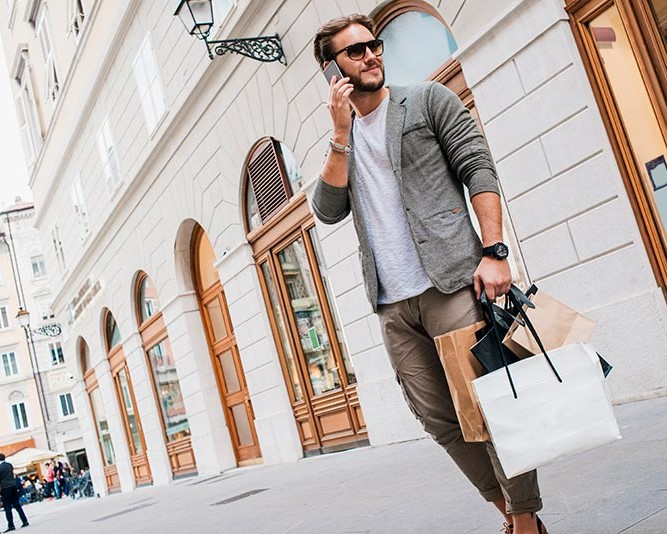
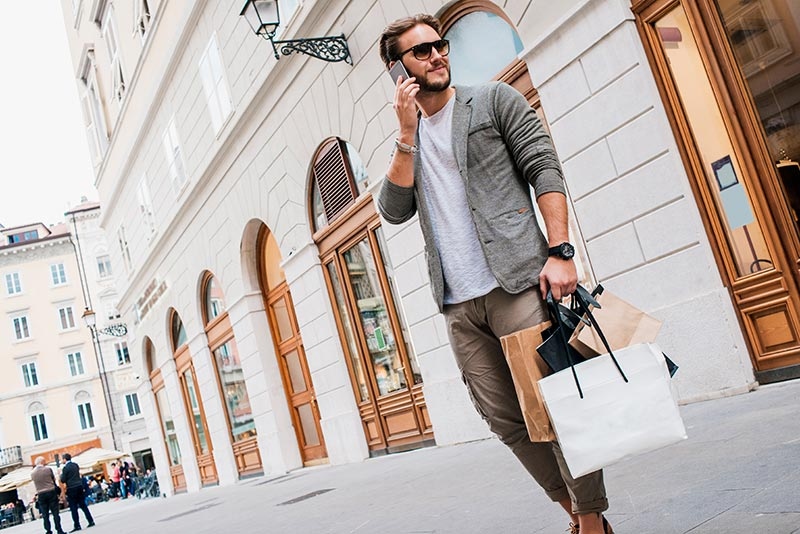
commit on master

diff --git a/css/styles.css b/css/styles.css
@@ -225,9 +225,9 @@ nav {
 .landing {
   margin-top: 20px;
   background-image: linear-gradient(rgba(0, 0, 0, 0.2), rgba(0, 0, 0, 0.2)),
-    url(../img/bg/couple.jpg);
+    url(../img/bg/family.jpg);
   background-size: cover;
-  background-position: right;
+  background-position: top;
   height: 80vh;
 }
 
@@ -238,35 +238,36 @@ nav {
 
 .landing-btn {
   text-align: center;
-  margin-top: 60px;
-  background-color: #fff;
+  margin-top: 30px;
+  background-color: #eee;
   width: 450px;
   height: 100px;
   box-shadow: 5px 5px 2px 1px rgba(0, 0, 0, 0.3);
 }
 
 .landing-btn a {
-  margin-top: 25px;
-  margin-right: 10px;
+  margin: 25px 10px 0 0;
 }
 
 /*------- FEATURED PRODUCTS -------*/
 
 .more {
   text-align: center;
+  margin-top: 10px;
 }
 
 .product-card {
   position: relative;
   box-shadow: 0 2px 7px #dfdfdf;
-  margin: 50px 15px;
+  margin: 30px 0;
+  margin-left: 20px;
   background: #fafafa;
 }
 
 .badge {
   position: absolute;
   left: 0;
-  top: 15px;
+  top: 10px;
   text-transform: uppercase;
   font-size: 13px;
   font-weight: 700;
@@ -276,13 +277,12 @@ nav {
 }
 
 .product-tumb {
-  cursor: pointer;
   display: flex;
   align-items: center;
   justify-content: center;
   height: 250px;
-  padding: 50px;
   background: #f0f0f0;
+  z-index: 1;
 }
 
 .product-tumb a.btn {
@@ -299,20 +299,21 @@ nav {
 .product-tumb a:nth-child(2) {
   top: 32%;
 }
-/* 
-.product-tumb:hover {
-  background: rgba(0, 0, 0, 0.2);
-  padding: 40px;
-  transition: all 0.3s;
-} */
 
-.product-tumb:hover a.btn-white {
+.product-tumb:hover a.btn {
   display: block;
 }
 
 .product-tumb img {
   max-width: 100%;
   max-height: 100%;
+  transition: all 0.3s;
+}
+
+.product-tumb:hover img {
+  max-width: 108%;
+  max-height: 108%;
+  transition: all 0.3s;
 }
 
 .product-details {
@@ -375,6 +376,9 @@ nav {
 }
 
 .product-links {
+  position: absolute;
+  right: 10px;
+  bottom: 15px;
   text-align: right;
 }
 
@@ -561,12 +565,11 @@ footer h3 span {
 
   .nav-btn {
     display: inline-block;
-    width: 30%;
+    width: 10%;
     margin-left: 10px;
   }
 
   .nav-btn label {
-    cursor: pointer;
     display: block;
     width: 25px;
     height: 20px;
@@ -616,7 +619,6 @@ footer h3 span {
 
   .nav-left i {
     display: block;
-    cursor: pointer;
     position: absolute;
     right: 15px;
     top: 10px;
@@ -624,18 +626,16 @@ footer h3 span {
   }
 
   nav {
-    height: 50px;
+    height: 60px;
   }
 
   .brand-name {
-    margin-top: 5px;
+    margin-top: 8px;
     display: inline-block;
   }
 
   .brand-name a:link,
   .brand-name a:visited {
-    all: unset;
-    cursor: pointer;
     font-size: 200%;
   }
 
@@ -651,22 +651,23 @@ footer h3 span {
     margin-top: 15px;
   }
 
-  /* DROPDOWN LINK */
   .dropdown-content {
-    display: none !important;
-    position: absolute;
-    background-color: #000;
-    box-shadow: 0px 8px 16px 0px rgba(0, 0, 0, 0.2);
+    right: 0;
   }
 
-  .dropdown-content a {
-    margin: 10px 30px;
+  .hero-text-box br {
+    display: none;
   }
 
-  .dropdown-content a:first-child:hover,
-  .dropdown-content a:first-child:active {
-    background-color: rgba(13, 187, 13, 0.7);
-    border: 2px solid rgba(13, 187, 13, 0.7);
+  /*------- CONTENT ASSET SECTION --------*/
+
+  .content-asset {
+    padding: 20px 0;
+  }
+
+  .content {
+    width: 42%;
+    margin: 15px 0;
   }
 
   /*------- FOOTER --------*/
@@ -689,7 +690,73 @@ footer h3 span {
   }
 }
 
-/* PARAGRAPHS */
+@media (max-width: 529px) {
+  section {
+    padding: 20px 0;
+  }
+
+  .content {
+    width: 100%;
+  }
+
+  h1 {
+    font-size: 200%;
+    word-spacing: 2px;
+  }
+
+  h2 {
+    font-size: 110%;
+    word-spacing: 1px;
+    margin-bottom: 10px;
+  }
+
+  h2::after {
+    height: 1px;
+    margin-top: 10px;
+  }
+
+  .hero-text-box {
+    margin: 30px;
+  }
+
+  .landing-btn {
+    width: 220px;
+    height: 130px;
+  }
+
+  .landing-btn a {
+    margin: 10px 0 0;
+  }
+
+  .product-card {
+    margin: 20px 0 20px 13px;
+  }
+
+  .product-tumb {
+    height: 150px;
+  }
+
+  .product-tumb:hover a.btn {
+    display: none;
+  }
+
+  .product-details {
+    padding: 10px;
+  }
+
+  .product-details h4 a {
+    font-size: 80%;
+  }
+
+  .product-bottom-details {
+    padding-top: 5px;
+  }
+
+  .product-details p {
+    display: none;
+  }
+}
+
 /* 
 .long-copy {
   line-height: 145%;

diff --git a/index.html b/index.html
@@ -80,12 +80,12 @@
     <section class="landing">
       <div class="hero-text-box">
         <h1>
-          This is your best choice <br />
-          to shop here
+          This is your best <br />
+          choice to shop here
         </h1>
         <div class="landing-btn">
-          <a href="#" class="btn btn-black">Shop mens </a>
-          <a href="#" class="btn btn-black">Shop womens </a>
+          <a href="#" class="btn btn-white">Shop mens </a>
+          <a href="#" class="btn btn-white">Shop womens </a>
         </div>
       </div>
     </section>
@@ -131,7 +131,7 @@
         <div class="span_1_of_3">
           <div class="product-card">
             <div class="product-tumb">
-              <img src="img/Men1.jpg" alt="Womens bag" />
+              <img src="img/Men1.png" alt="Womens bag" />
             </div>
 
             <div class="product-details">
@@ -142,7 +142,7 @@
         <div class="span_1_of_3">
           <div class="product-card">
             <div class="product-tumb">
-              <img src="img/img7.jpg" alt="Womens bag" />
+              <img src="img/img5.jpg" alt="Womens bag" />
             </div>
 
             <div class="product-details">
@@ -153,7 +153,7 @@
         <div class="span_1_of_3">
           <div class="product-card">
             <div class="product-tumb">
-              <img src="img/img2.jpg" alt="Womens bag" />
+              <img src="img/img6.jpg" alt="Womens bag" />
             </div>
 
             <div class="product-details">
@@ -190,6 +190,7 @@
                 <div class="product-price"><small>$96.00</small>$230.99</div>
                 <div class="product-links">
                   <a href="#"><i class="fa fa-heart"></i></a>
+                  <a href="#"><i class="fa fa-shopping-cart"></i></a>
                 </div>
               </div>
             </div>
@@ -215,6 +216,7 @@
                 <div class="product-price"><small>$96.00</small>$230.99</div>
                 <div class="product-links">
                   <a href="#"><i class="fa fa-heart"></i></a>
+                  <a href="#"><i class="fa fa-shopping-cart"></i></a>
                 </div>
               </div>
             </div>
@@ -240,6 +242,7 @@
                 <div class="product-price"><small>$96.00</small>$230.99</div>
                 <div class="product-links">
                   <a href="#"><i class="fa fa-heart"></i></a>
+                  <a href="#"><i class="fa fa-shopping-cart"></i></a>
                 </div>
               </div>
             </div>
@@ -265,6 +268,7 @@
                 <div class="product-price"><small>$96.00</small>$230.99</div>
                 <div class="product-links">
                   <a href="#"><i class="fa fa-heart"></i></a>
+                  <a href="#"><i class="fa fa-shopping-cart"></i></a>
                 </div>
               </div>
             </div>
@@ -290,6 +294,7 @@
                 <div class="product-price"><small>$96.00</small>$230.99</div>
                 <div class="product-links">
                   <a href="#"><i class="fa fa-heart"></i></a>
+                  <a href="#"><i class="fa fa-shopping-cart"></i></a>
                 </div>
               </div>
             </div>
@@ -315,6 +320,7 @@
                 <div class="product-price"><small>$96.00</small>$230.99</div>
                 <div class="product-links">
                   <a href="#"><i class="fa fa-heart"></i></a>
+                  <a href="#"><i class="fa fa-shopping-cart"></i></a>
                 </div>
               </div>
             </div>
@@ -366,7 +372,7 @@
           <a href="#">Contact</a>
         </div>
 
-        <p class="footer-company-name">OnlineStore &copy; 2021</p>
+        <p class="footer-company-name">FamilyStore &copy; 2021</p>
       </div>
 
       <div class="footer-center">
@@ -383,7 +389,7 @@
         <div>
           <i class="fa fa-envelope"></i>
           <p>
-            <a href="hojimirzaevabdumalik@gmail.com">contact@onlinestore.com</a>
+            <a href="hojimirzaevabdumalik@gmail.com">contact@admin.com</a>
           </p>
         </div>
       </div>
